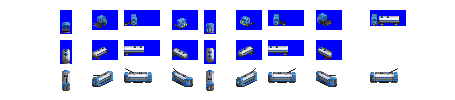
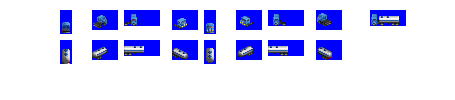
Change: improved edibles tanker sprites

diff --git a/src/vehicles/waterperry.py b/src/vehicles/waterperry.py
@@ -14,7 +14,7 @@ consist.add_unit(EdiblesTanker(consist = consist,
                         capacity = 0,
                         vehicle_length = 2,
                         semi_truck_shift_offset_jank = 2,
-                        effects = ['EFFECT_SPRITE_DIESEL, -3, 1, 10'],
+                        effects = ['EFFECT_SPRITE_DIESEL, -2, 1, 10'],
                         spriterow_num = 0))
 
 consist.add_unit(EdiblesTanker(consist = consist,
